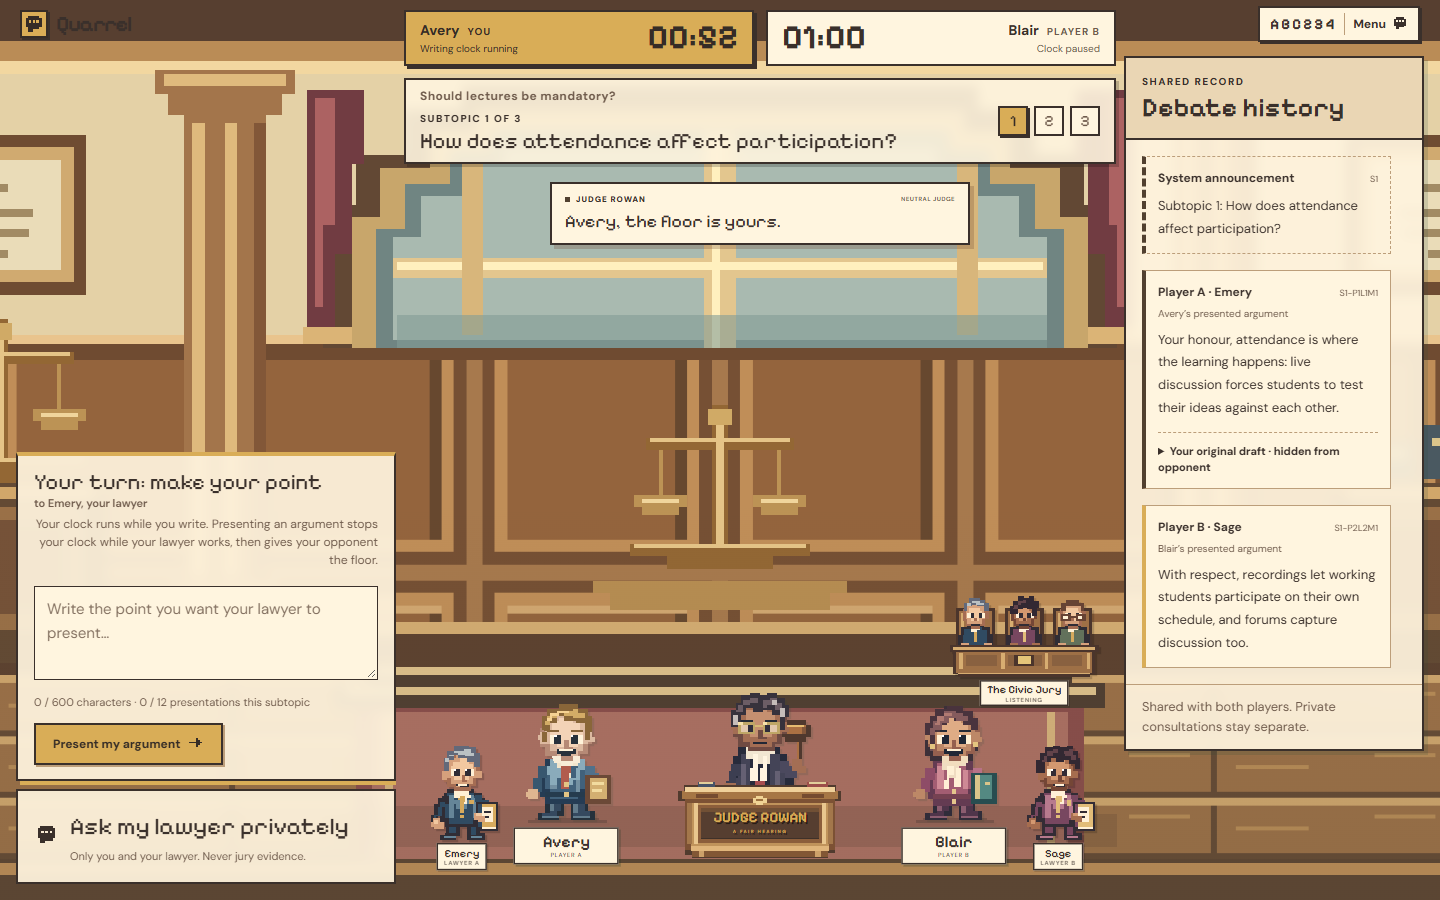
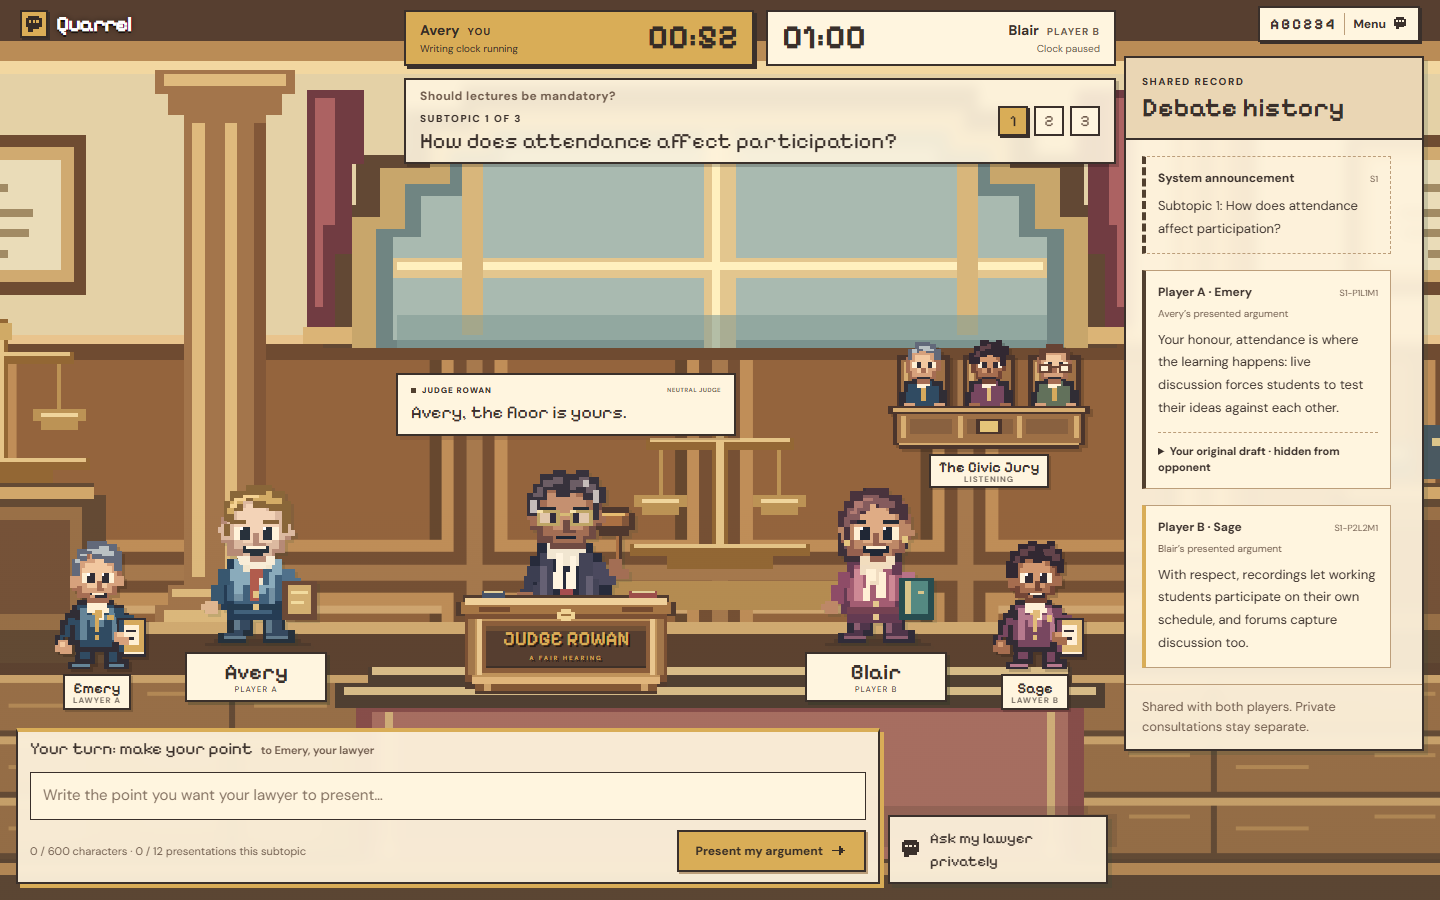
Game HUD: long input bar along the bottom, full-size cast above it
The argument input is a wide, low bar (status text kept for screen
readers only, private lawyer beside it); the cast fills the space above
it at full scale.

Changed region(s): [[0.0, 0.3733, 0.7812, 0.9956], [0.375, 0.1867, 0.6875, 0.28], [0.0312, 0.0, 0.0938, 0.0622]]

diff --git a/src/components/stage-five-app.css b/src/components/stage-five-app.css
@@ -113,3 +113,19 @@
 @container arena (max-width:640px) {.game-shell .debate-arena .judge-speech {--sw:0.62;}}
 @container arena (max-width:520px) {.game-shell .debate-arena .judge-speech {--sw:0.52;}}
 @container arena (max-width:420px) {.game-shell .debate-arena .judge-speech {--sw:0.44;}}
+/* HUD v2: a long, low input bar along the bottom; the cast gets all the room above it at full size. */
+@media(min-width:761px){
+  .game-shell div:has(>section[aria-labelledby="present-argument-title"]),.game-shell section[role="status"] {left:16px;right:calc(min(300px,24vw) + 32px);bottom:16px;width:auto;max-height:none;overflow:visible;}
+  .game-shell div:has(>section[aria-labelledby="present-argument-title"]) {display:grid;grid-template-columns:minmax(0,1fr) minmax(170px,220px);align-items:end;gap:8px;}
+  .game-shell section[aria-labelledby="present-argument-title"] form {padding:8px 12px 10px;gap:6px;}
+  .game-shell section[aria-labelledby="present-argument-title"] h3 {font-size:17px;}
+  .game-shell section[aria-labelledby="present-argument-title"] h3 span {display:inline;margin:0 0 0 8px;}
+  .game-shell section[aria-labelledby="present-argument-title"] p[role="status"] {position:absolute;width:1px;height:1px;overflow:hidden;clip-path:inset(50%);white-space:nowrap;}
+  .game-shell section[aria-labelledby="present-argument-title"] textarea {min-height:48px;height:48px;resize:none;}
+  .game-shell div:has(>section[aria-labelledby="present-argument-title"])>details>summary {padding:10px 12px;gap:8px;}
+  .game-shell div:has(>section[aria-labelledby="present-argument-title"])>details>summary>span {font-size:15px;}
+  .game-shell div:has(>section[aria-labelledby="present-argument-title"])>details>summary small {display:none;}
+  .game-shell div:has(>section[aria-labelledby="present-argument-title"])>details[open] {grid-column:1/-1;max-height:50vh;overflow-y:auto;}
+  .game-shell .debate-arena .court-stage {inset:178px calc(min(300px,24vw) + 24px) 150px 16px !important;}
+}
+@media(min-width:761px) and (max-width:1180px){.game-shell .debate-arena .court-stage{top:206px!important}}
